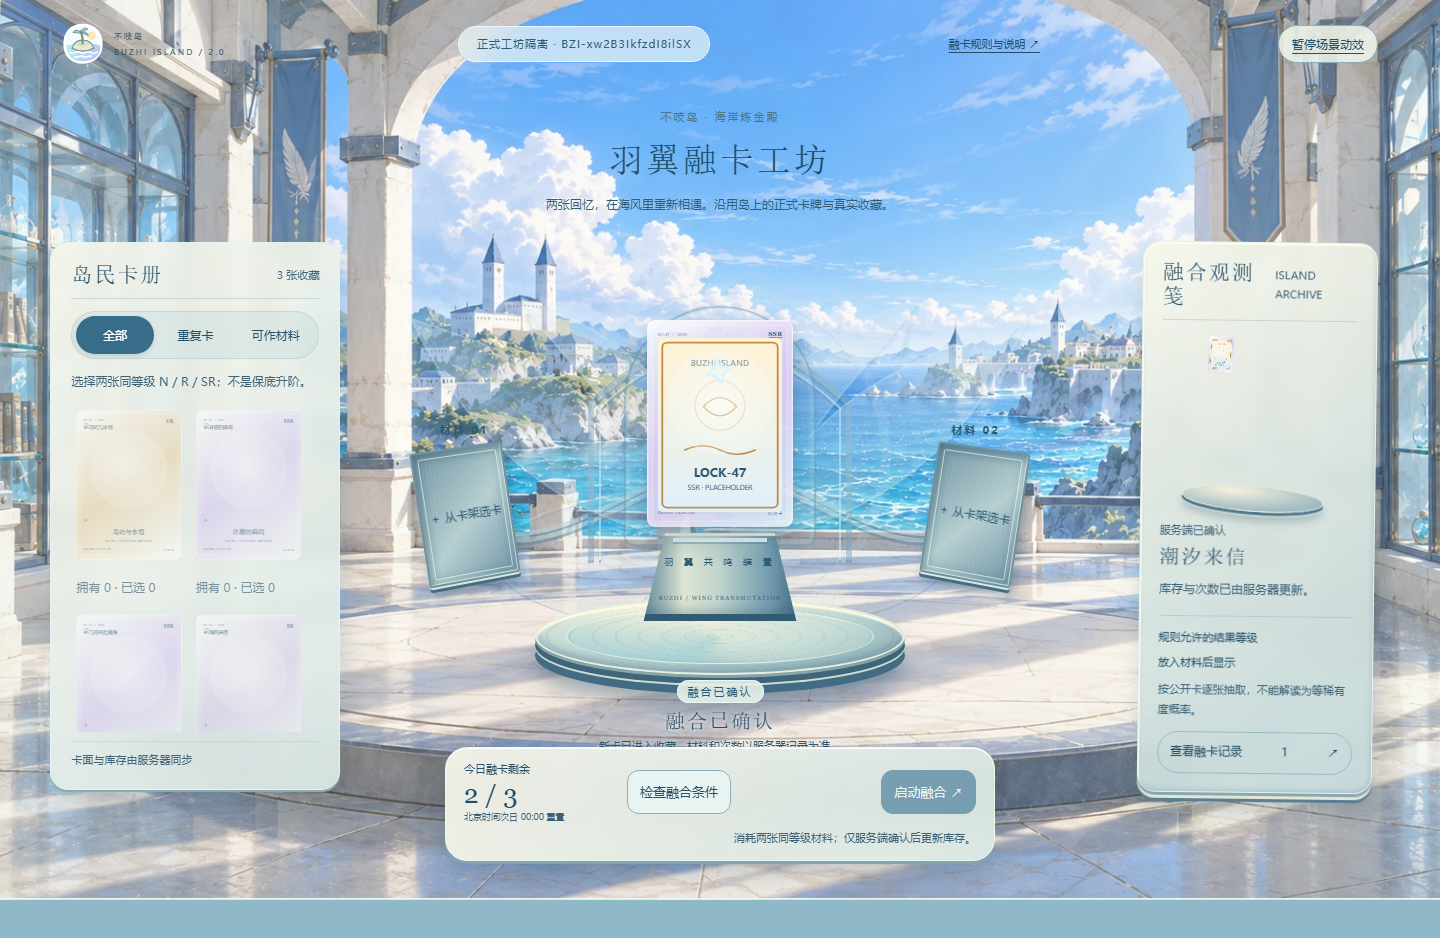
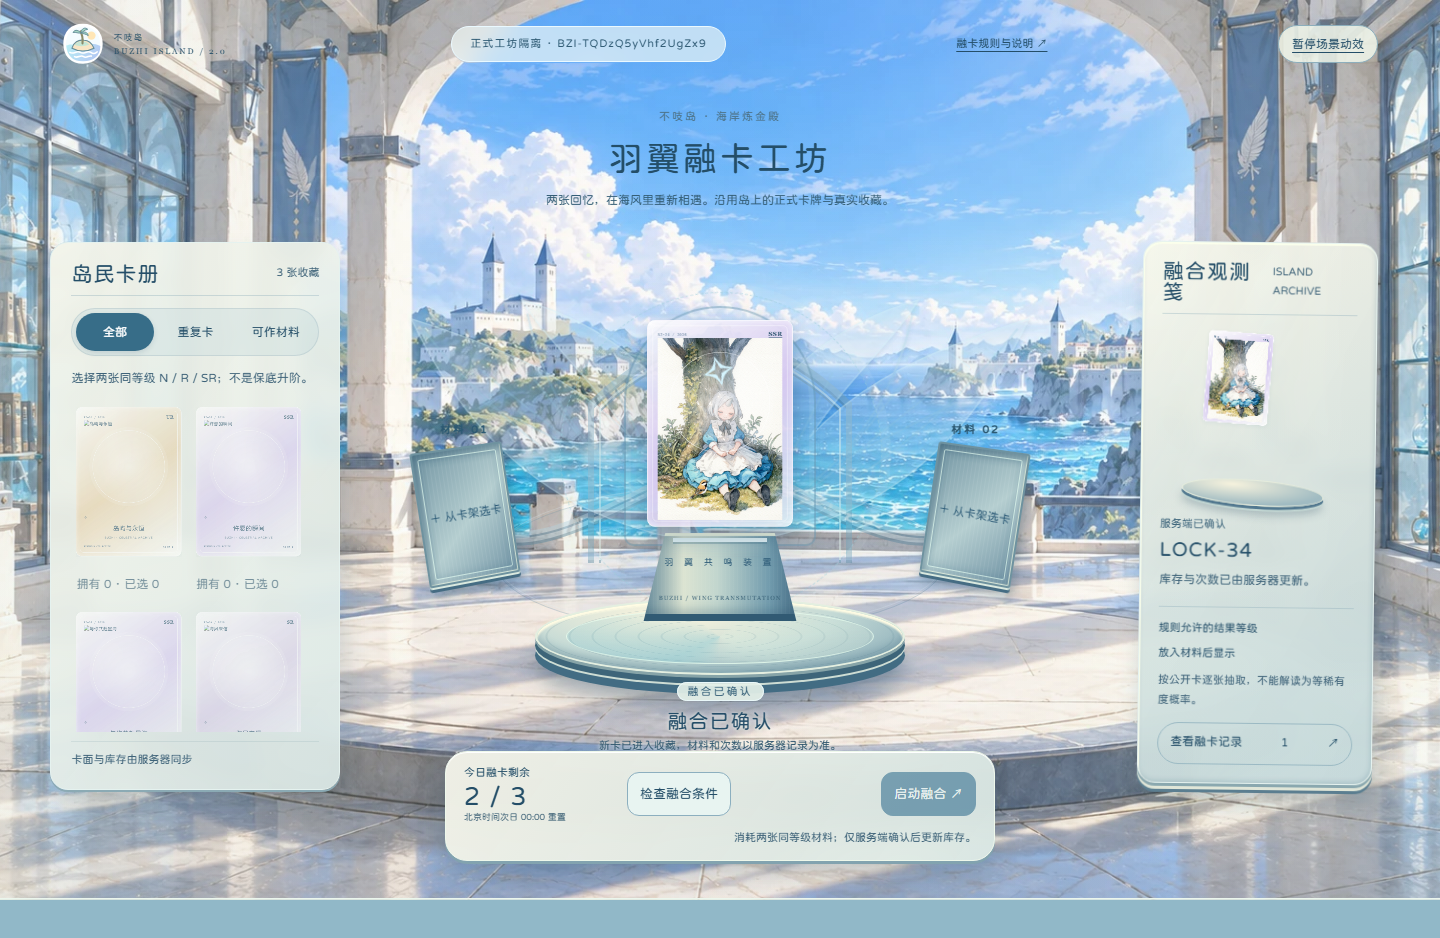
style: align workshop typography with original Buzhi Rounded font

diff --git a/ui-preview/workshop-visual-repair.css b/ui-preview/workshop-visual-repair.css
@@ -1,4 +1,11 @@
 /* Scene and layout only. Canonical cards and the live controller are untouched. */
+@font-face{font-family:'Buzhi Rounded';src:url('assets/fonts/buzhi-rounded.woff2') format('woff2');font-weight:400;font-style:normal;font-display:swap}
+:root{--workshop-type:'Buzhi Rounded','PingFang SC','Microsoft YaHei',system-ui,sans-serif}
+body{font-family:var(--workshop-type)}
+.title h1,.brand-wordmark,.cabinet-header h2,.stage-status h2,.result-info h3,.quota strong{font-family:var(--workshop-type);font-weight:400;letter-spacing:1px}
+.title h1{letter-spacing:3px;line-height:1.4}.brand-wordmark{font-size:23px}.brand-wordmark>span{font:8px/1.8 Georgia,serif;letter-spacing:2px}
+.shelf-tabs button,.action-buttons button,.motion-control,#history-button,.cabinet-note,.rack-meta,.result-info p,.pool-note,.action-dock>p,footer{font-family:var(--workshop-type);font-weight:400}
+@media(max-width:760px){.brand-wordmark{font-size:20px}.title h1{letter-spacing:2px}.cabinet-header h2{letter-spacing:1px}}
 html{height:100%;background:#91b8c8}body{height:100svh;min-height:760px;overflow-x:hidden;overflow-y:auto}.atelier-world{position:fixed;inset:0;background-size:cover;min-height:100svh}main{position:relative;height:calc(100svh - 90px);min-height:670px}header{position:relative;z-index:12}.brand{display:flex;align-items:center;gap:10px;line-height:1.3}.brand .island-logo{width:42px;height:42px;object-fit:contain;flex:none}.brand-wordmark{display:block}.brand-wordmark>span{display:block}
 .collection-cabinet{top:19%;bottom:108px;max-height:none;display:flex;flex-direction:column;transform:none;padding:20px;border-radius:18px;background:linear-gradient(130deg,#f6f6ebef,#dbe9e7eb);overflow:hidden;box-sizing:border-box}.cabinet-header{flex:none}.cabinet-header h2{font-size:21px}.shelf-tabs{display:flex;padding:4px;gap:3px;border:1px solid #8baab344;border-radius:25px;background:#c4d9dd61;flex:none}.shelf-tabs button{flex:1;border:0;border-radius:20px;min-height:38px;font-size:12px;background:transparent;text-decoration:none}.shelf-tabs button[aria-pressed=true]{color:#fff;background:#376d88;box-shadow:0 2px 5px #325a7229}.cabinet-note{font-size:12px;line-height:1.7;flex:none;margin:12px 0}.card-rack{flex:1;min-height:0;max-height:none;overflow-y:auto;overflow-x:hidden;align-content:start;align-items:start;grid-auto-rows:max-content;gap:18px 14px;padding:7px 8px 16px 5px;overscroll-behavior:contain;scrollbar-gutter:stable;scrollbar-width:thin;scrollbar-color:#6d99ad #d7e5e5;scroll-padding-top:8px}.rack-item:nth-child(even){transform:none}.rack-item{min-height:0;align-self:start}.rack-meta{display:block;font-size:12px;line-height:1.6;margin-top:9px;color:#33586e}.card-rack .bzi-official-card-host{display:block;flex:none;width:100%;height:auto;aspect-ratio:300/425;overflow:hidden;box-sizing:content-box}.shelf-foot{flex:none;margin:9px 0 0;padding-top:9px;border-top:1px solid #789aa52e;font-size:11px}.result-cabinet{top:19%;max-height:calc(100% - 190px);overflow:auto;border-radius:18px}.action-dock{bottom:37px;border-radius:22px;width:min(550px,calc(100% - 40px));background:linear-gradient(125deg,#f4f4e9f5,#dbe9e5ed);border-color:#eef8eb;box-shadow:inset 0 1px #fff,0 3px 0 #82a3af,0 12px 28px #23485e3b}.action-dock>p{font-size:11px}.action-buttons button{border-radius:12px;min-height:44px;font-size:13px}footer{position:relative;left:auto;right:auto;bottom:auto;padding:10px 4%;min-height:32px;box-sizing:border-box;background:#e3eee5d9;border-top:1px solid #ebf6ed;font-size:11px}#history-button{border:1px solid #9bb9c3;border-radius:22px;width:100%;text-decoration:none;margin-top:12px;padding:8px 12px;font-size:12px}.motion-control{border:1px solid #8caebc;border-radius:24px;background:#eff5e9dd;min-height:38px;padding:6px 13px;font-size:12px;cursor:pointer}
 .machine:after{content:'';position:absolute;left:calc(50% - 160px);top:42px;width:320px;height:320px;border-radius:50%;border:1px dashed #9fcfdb9c;box-shadow:0 0 0 9px #e8f9f019;pointer-events:none;animation:workshop-orbit 36s linear infinite;z-index:0}.device-halo{animation:workshop-breathe 4s ease-in-out infinite}.tracks{animation:workshop-track 5s ease-in-out infinite}.scene-motes{position:fixed;inset:15% 10% 18%;pointer-events:none;overflow:hidden;z-index:0}.scene-motes i{position:absolute;left:var(--x);top:var(--y);width:4px;height:4px;border-radius:50%;background:#eaf8dd;box-shadow:0 0 7px #d9f3ee;animation:workshop-drift 6s ease-in-out infinite;animation-delay:var(--delay)}body[data-state=fusing] .atelier-world:after{background:#102a46;opacity:.63;transition:opacity .25s ease}body[data-state=fusing] .machine:after{border:2px dashed #c2eeef;animation-duration:3s;box-shadow:0 0 25px #a6e1e375}body[data-state=fusing] .fusion-particles i{animation-delay:var(--delay)!important}body[data-state=success] .machine-stand{filter:drop-shadow(0 0 14px #c2f7dc)}

diff --git a/docs/admin-fusion/VISUAL-REPAIR-20261105.md b/docs/admin-fusion/VISUAL-REPAIR-20261105.md
@@ -7,3 +7,7 @@
 验证：winged-workshop-browser.cjs 1440/390通过，测卡册边界、固定背景、Logo加载、伪元素暂停、减少动态、状态切换后保持暂停；保留真实融合响应丢失→刷新→同UUID重试仅一次结算测试。fusion-quota-integration.cjs真实合成库存、卡池关闭/融卡开放、幂等及限额通过。截图winged-repaired-1440.png与390.png为合成环境。
 
 workshop-live.js及official-card.js/css未改，完整文件哈希记录visual-repair-unchanged.json。没有连接生产、没有部署、没有真实业务写入；正式仍df9b20b。
+
+## 字体补充
+
+合入Work最新CSS中的Buzhi Rounded字体声明与标题/按钮/说明/数量规则，复用原assets/fonts/buzhi-rounded.woff2（2639152字节），未重复复制字体。没有覆盖先前背景路径、Logo路径及暂停伪元素等适配。1440/390真实浏览器document.fonts.load/check通过，标题computed fontFamily含Buzhi Rounded，无横向溢出；真实隔离融合及原UUID重试回归再次通过。正式卡面及live控制器哈希仍不变。仅开发整合，未部署生产。
